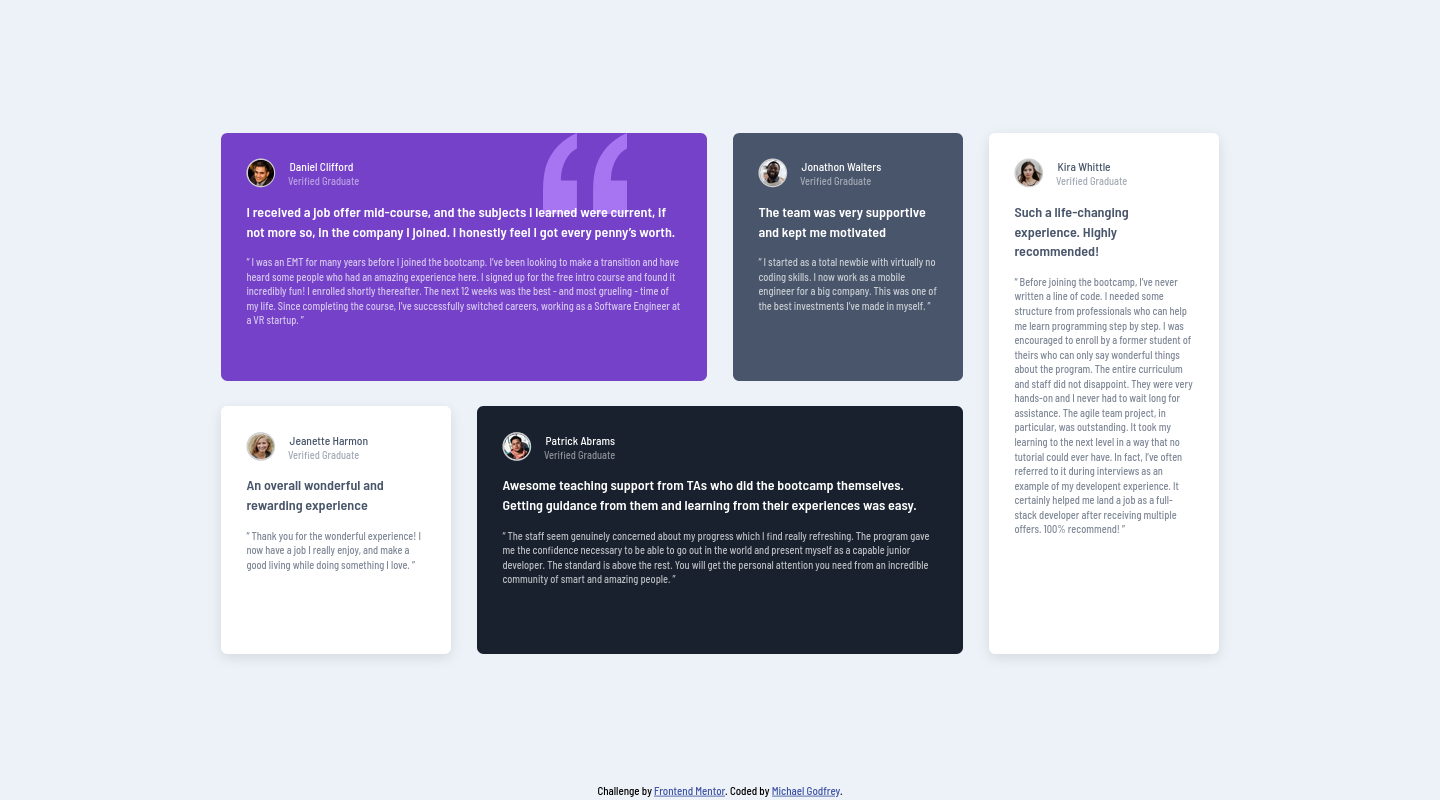
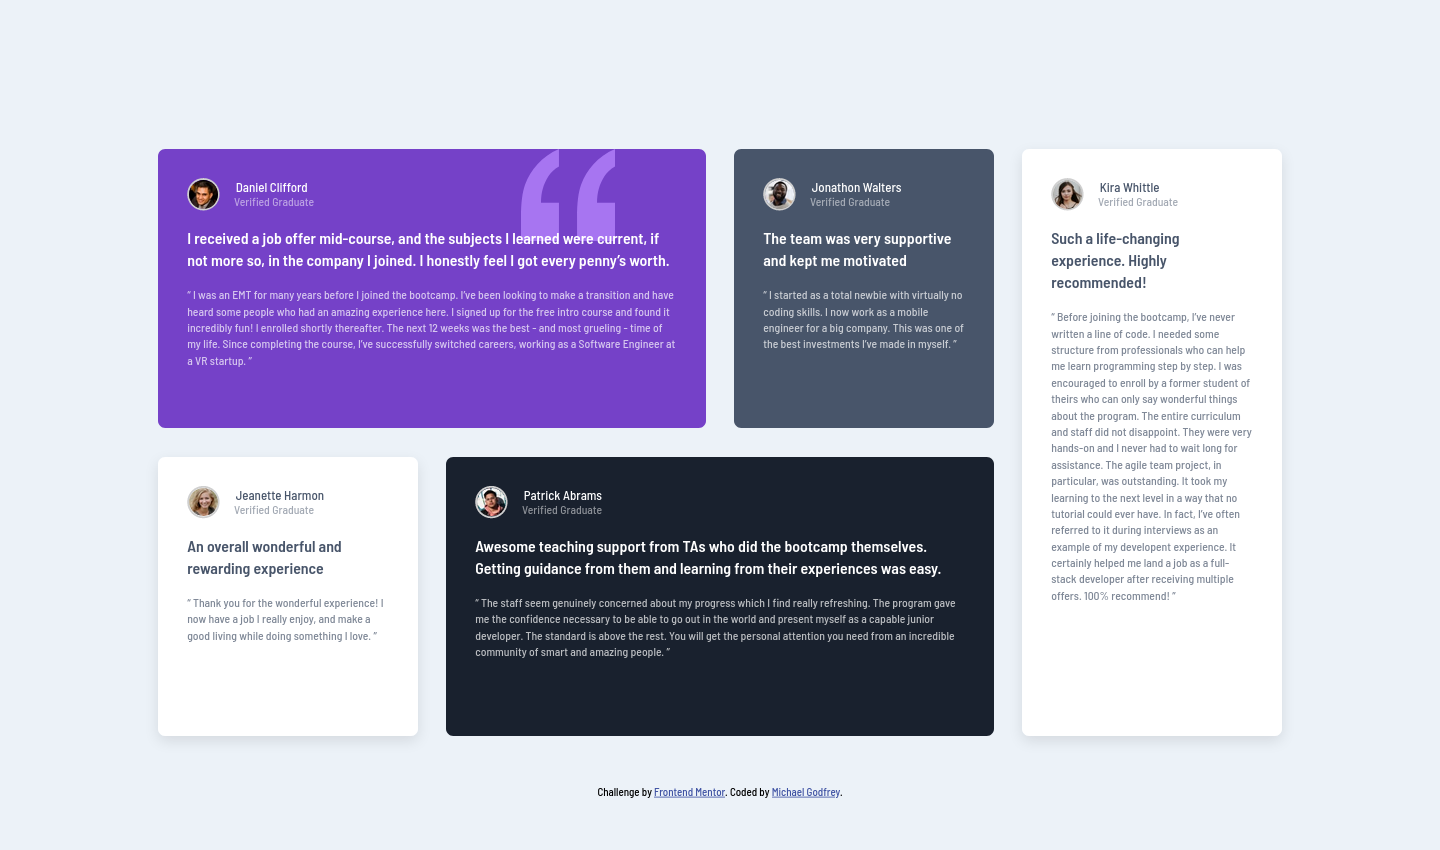
Replaced h3 elements with span etc

Changed region(s): [[0.0938, 0.1562, 0.875, 0.875], [0.4062, 0.9688, 0.5938, 1.0], [0.4062, 0.9062, 0.5938, 0.9375]]

diff --git a/index.html b/index.html
@@ -16,9 +16,9 @@
       <div class="card card--A">
         <div class="card__header">
           <img src="images/image-daniel.jpg" alt="image" />
-          <div class="card__name">
-            <h3>Daniel Clifford</h3>
-            <span>Verified Graduate</span>
+          <div>
+            <span class="card__name">Daniel Clifford</span>
+            <p class="card__title">Verified Graduate</p>
           </div>
         </div>
         <div class="card__text">
@@ -39,9 +39,9 @@
     <div class="card card--B">
       <div class="card__header">
         <img src="images/image-jonathon.jpg" alt="image" />
-        <div class="card__name">
-          <h3>Jonathon Walters</h3>
-          <span>Verified Graduate</span>
+        <div>
+          <span class="card__name">Jonathon Walters</span>
+          <p class="card__title">Verified Graduate</p>
         </div>
       </div>
       <div class="card__text">
@@ -58,9 +58,9 @@
     <div class="card card--C">
       <div class="card__header">
         <img src="images/image-jeanette.jpg" alt="image" />
-        <div class="card__name">
-          <h3>Jeanette Harmon</h3>
-          <span>Verified Graduate</span>
+        <div>
+          <span class="card__name">Jeanette Harmon</span>
+          <p class="card__title">Verified Graduate</p>
         </div>
 
       </div>
@@ -78,9 +78,9 @@
     <div class="card card--D">
       <div class="card__header">
           <img src="images/image-patrick.jpg" alt="image" />
-          <div class="card__name">
-            <h3>Patrick Abrams</h3>
-            <span>Verified Graduate</span>
+          <div>
+            <span class="card__name">Patrick Abrams</span>
+            <p class="card__title">Verified Graduate</p>
           </div>
 
       </div>
@@ -101,9 +101,9 @@
     <div class="card card--E">
       <div class="card__header">
           <img src="images/image-kira.jpg" alt="image" />
-          <div class="card__name">
-            <h3>Kira Whittle</h3>
-            <span>Verified Graduate</span>
+          <div>
+            <span class="card__name">Kira Whittle</span>
+            <p class="card__title">Verified Graduate</p>
           </div>
 
       </div>

diff --git a/styles.css b/styles.css
@@ -26,13 +26,14 @@ h1 {
   display: grid;
   grid-gap: 1.5rem;
   padding: 1rem;
-  margin: 3rem 0;
+  margin: 3rem 0 0;
 }
 
 .card {
   padding: 2rem;
+  margin: auto;
   border-radius: .5rem;
-  max-width: 1000px;
+  max-width: 635px;
 }
 
 .card__header {
@@ -47,18 +48,19 @@ h1 {
   height: 2rem;
 }
 
-.card__header h3 {
+.card__header div {
+  margin-left: 1rem;
+}
+
+.card__name {
   margin: 2px;
   font-weight: 500;
   font-size: .9rem;
 }
 
-.card__name {
-  margin-left: 1rem;
-}
-
-.card__name span {
+.card__title {
   opacity: .5;
+  margin: 0;
 }
 
 .card__intro {
@@ -100,11 +102,20 @@ h1 {
   color: var(--clr-very-dark-grayish-blue);
 }
 
+.attribution {
+  font-size: 11px;
+  text-align: center;
+}
 
-.attribution { font-size: 11px; text-align: center; }
-.attribution a { color: hsl(228, 45%, 44%); }
+.attribution a {
+  color: hsl(228, 45%, 44%);
+}
 
-@media (min-width: 1000px) {
+@media (min-width: 1160px) {
+
+  .card {
+    margin: 0;
+  }
 
   .card--A {
     grid-area: card--A;
@@ -137,7 +148,7 @@ h1 {
   }
 
   .grid {
-    transform: scale(.8);
+    transform: scale(.9);
     grid-gap: 2rem;
     grid-template-columns: repeat(4, 288px);
     grid-template-rows: repeat(2, 310px);
